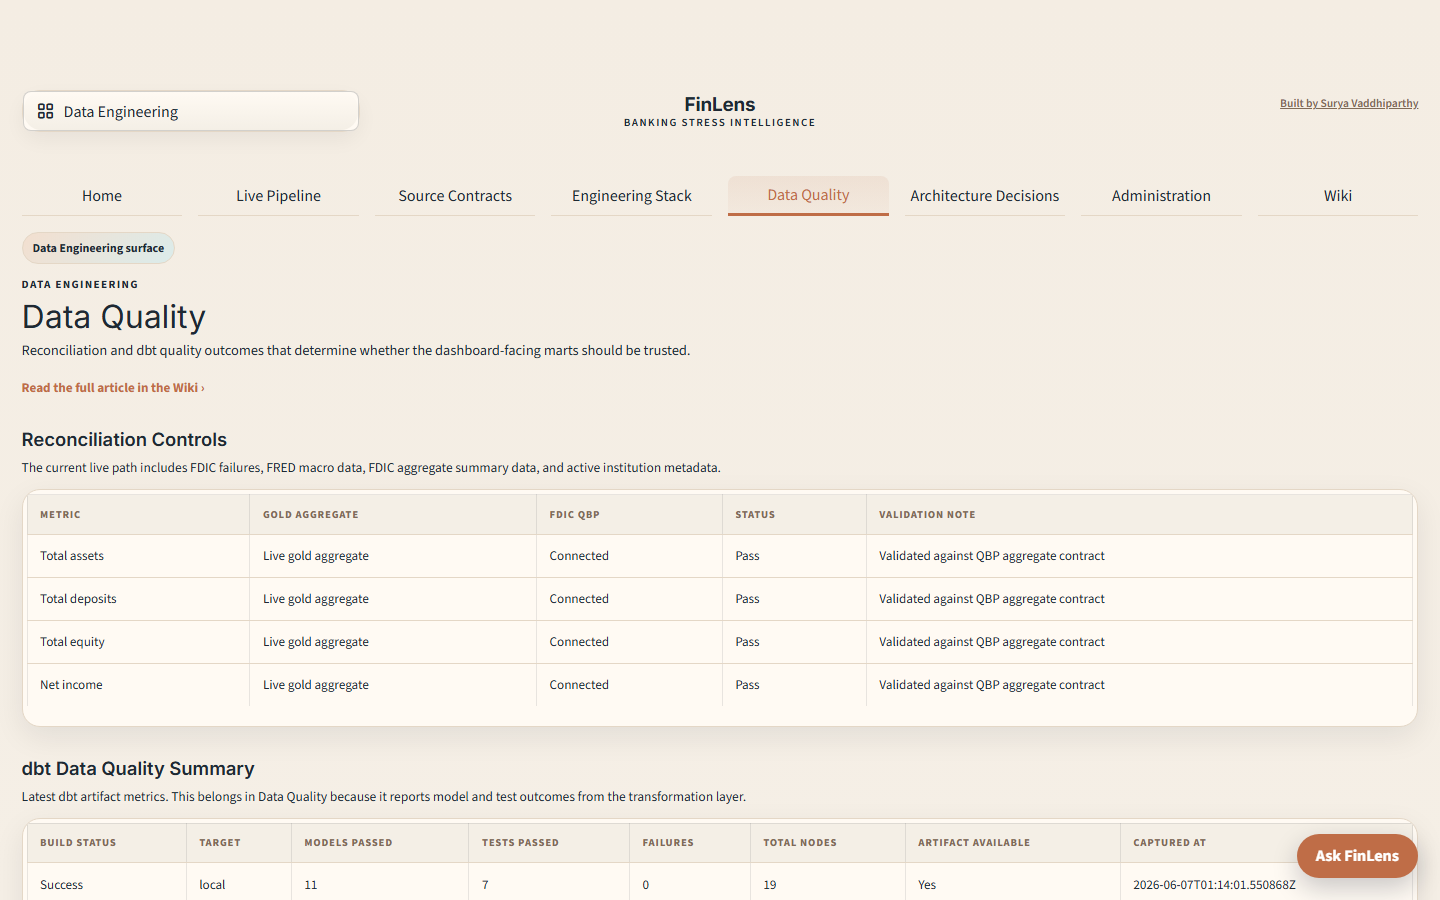
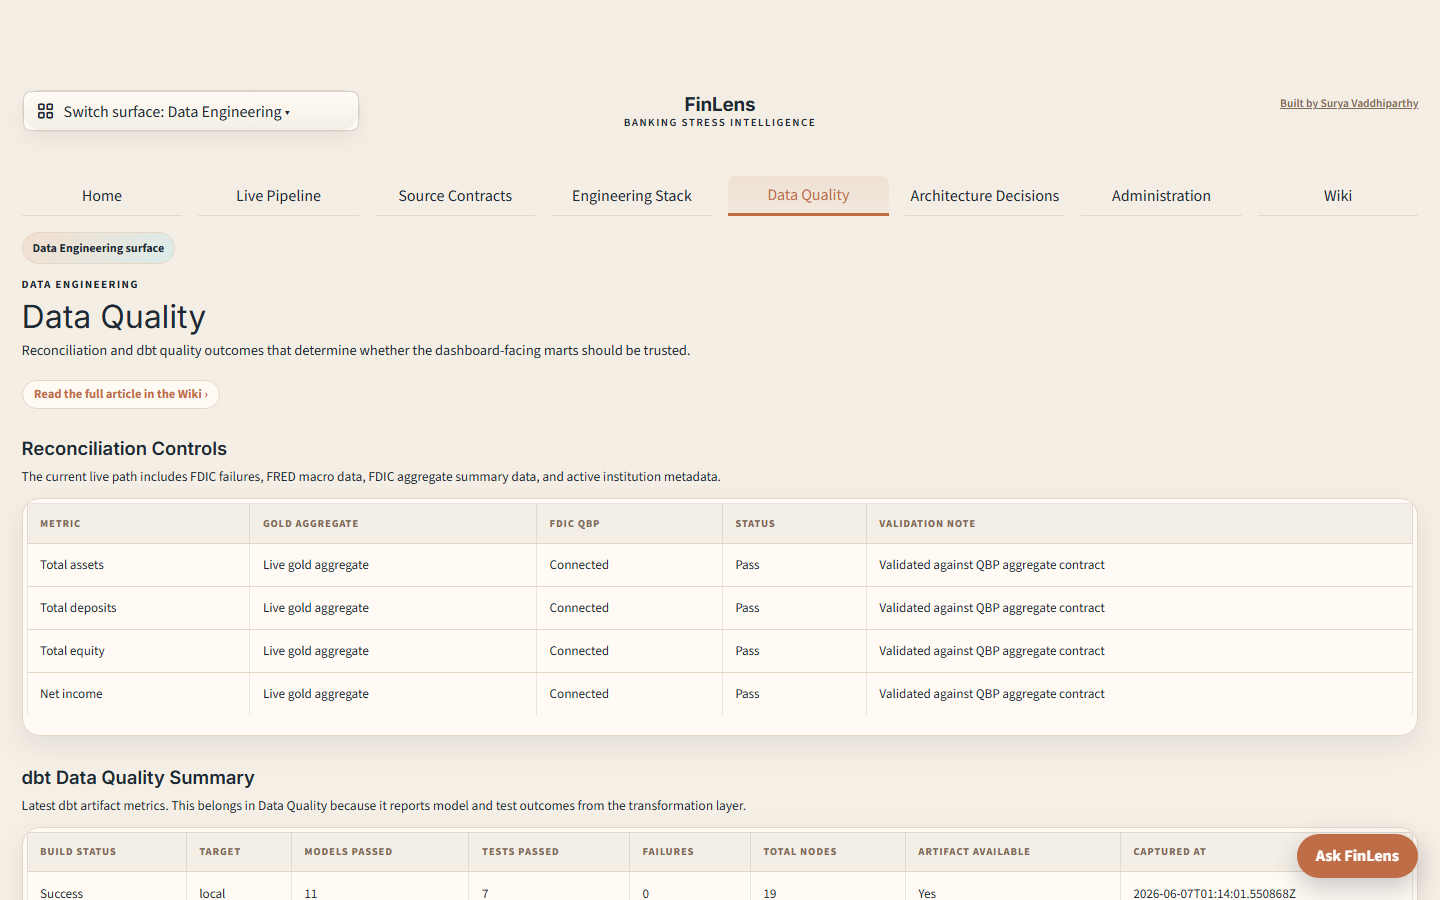
Beautification pass: KPI tile alignment, FAB clearance, wiki-link pill, EW ribbon, honest captures
- metric-card subtext clamped to 2 lines so KPI tiles keep equal heights (long bank names no
  longer make ragged rows).
- Increased page bottom padding so the floating Ask FinLens button never covers bottom content.
- "Read the full article in the Wiki" restyled as a clear pill (was an orphaned link).
- Early Warning status ribbon: "experimental live scoring" -> "hypothetical what-if" (the live
  tab was removed).
- Capture suite now waits for Plotly charts / correct section content before snapshot, so the
  audit screenshots are honest (the prior "empty band" findings were capture-timing artifacts).

diff --git a/streamlit_app/lib/theme.py b/streamlit_app/lib/theme.py
@@ -199,7 +199,7 @@ def _build_app_css(mode: str, sidebar_open: bool = False) -> str:
     }}
     .block-container {{
         padding-top: .9rem;
-        padding-bottom: 3rem;
+        padding-bottom: 5.5rem;
         padding-left: 1.35rem;
         padding-right: 1.35rem;
         max-width: none !important;
@@ -1361,6 +1361,11 @@ def _build_app_css(mode: str, sidebar_open: bool = False) -> str:
         color: {palette["text_muted"]};
         font-size: .72rem;
         margin-top: .18rem;
+        display: -webkit-box;
+        -webkit-line-clamp: 2;
+        -webkit-box-orient: vertical;
+        overflow: hidden;
+        min-height: 2rem;
     }}
     .section-label {{
         color: {palette["text_main"]};
@@ -1944,13 +1949,22 @@ def _build_app_css(mode: str, sidebar_open: bool = False) -> str:
     }}
     .page-wiki-link {{
         display: inline-block;
-        margin-top: .2rem;
+        margin-top: .4rem;
         color: {palette["accent"]} !important;
-        font-size: .82rem;
+        font-size: .78rem;
         font-weight: 700;
         text-decoration: none !important;
+        border: 1px solid {palette["border"]};
+        border-radius: 999px;
+        padding: .2rem .7rem;
+        background: {palette["content_bg"]};
+        transition: border-color .12s ease, background .12s ease;
     }}
-    .page-wiki-link:hover {{ text-decoration: underline !important; }}
+    .page-wiki-link:hover {{
+        text-decoration: none !important;
+        border-color: {palette["accent"]};
+        background: {palette["sand"]};
+    }}
     .page-intro {{
         color: {palette["text_muted"]};
         margin-bottom: .7rem;

diff --git a/streamlit_app/pages/3_Early_Warning.py b/streamlit_app/pages/3_Early_Warning.py
@@ -114,7 +114,7 @@ def _render_score(result: dict, actual: int | None = None, key: str = "score",
         )
 
 
-status_ribbon("Historical backtest + experimental live scoring")
+status_ribbon("Historical backtest + hypothetical what-if")
 page_intro(
     "Business Surface",
     "Early Warning",
